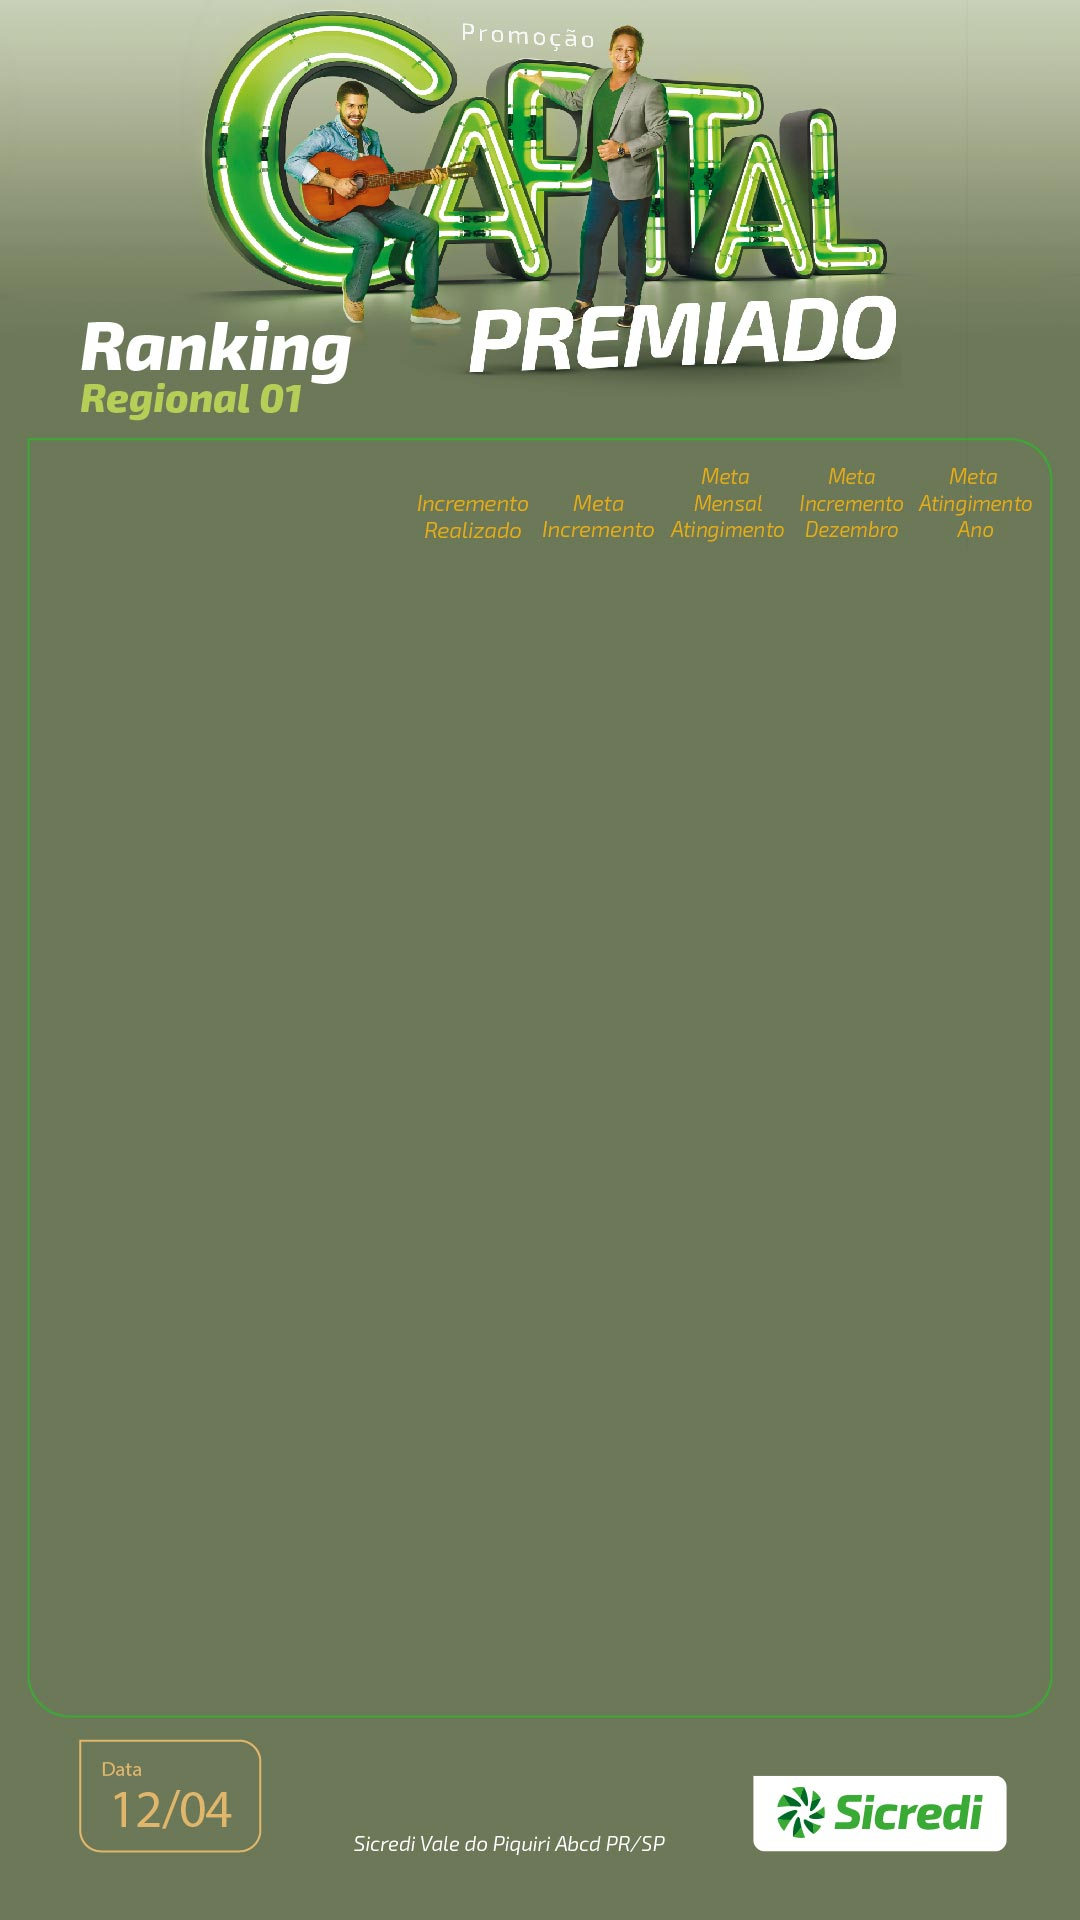
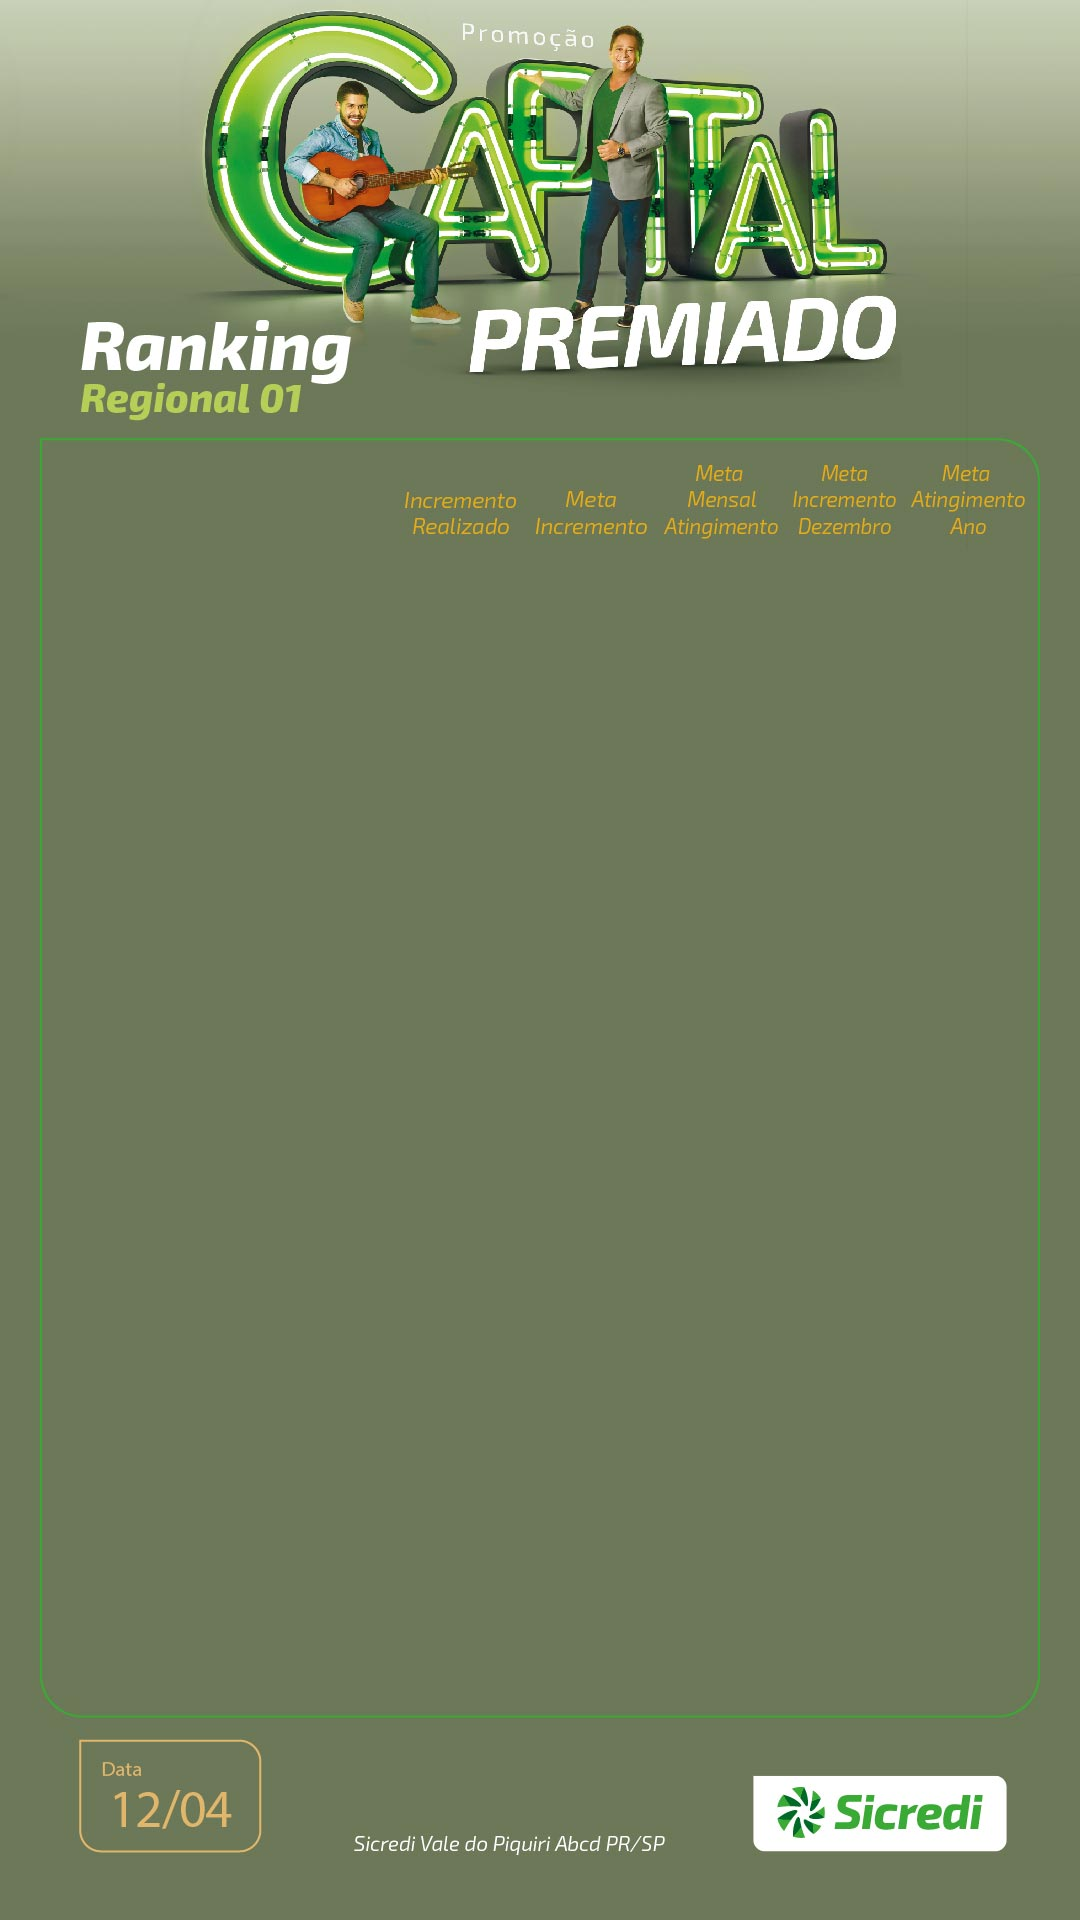
ajustes

Changed region(s): [[0.3667, 0.2188, 0.9778, 0.875]]

diff --git a/result.php b/result.php
@@ -58,8 +58,8 @@
 
       .col-1{
         padding-top: 347px;
-        width: 20%;
-        margin-left: 20.8%;
+        width: 19%;
+        margin-left: 21%;
         text-align: left;
       }
 
@@ -68,7 +68,7 @@
       }
 
       .col-3{
-        width: 8.3%;
+        width: 8.5%;
 
       }
 
@@ -78,7 +78,7 @@
       }
 
       .col-5{
-        width: 9%;
+        width: 9.5%;
 
       }
 
